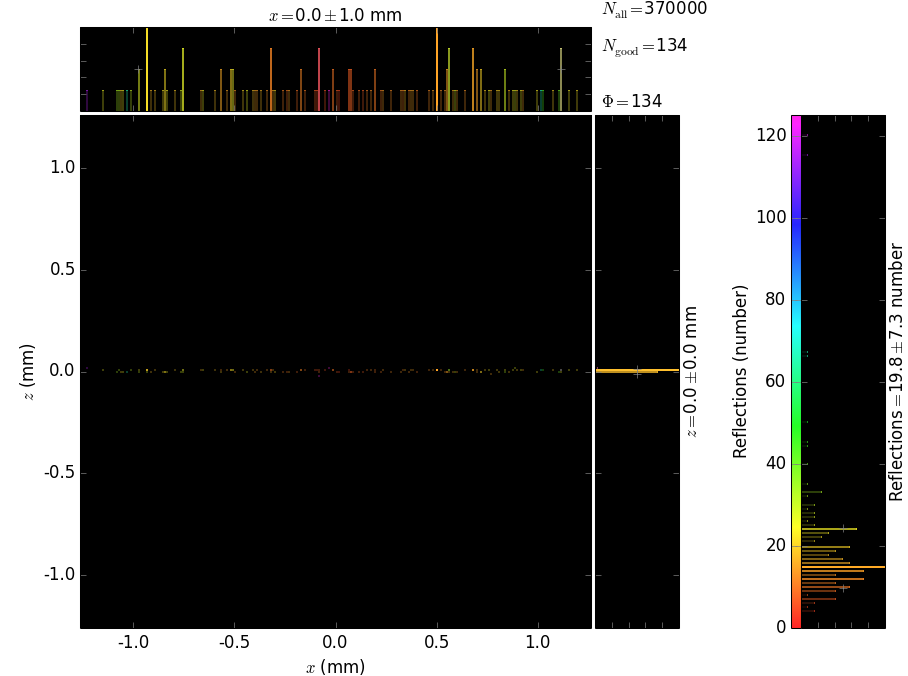
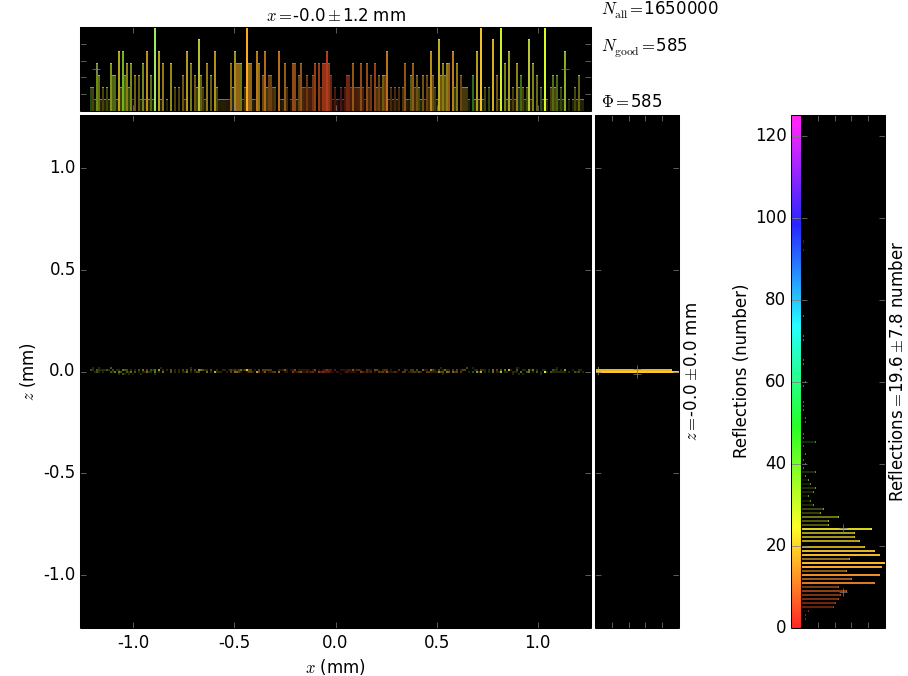
Minor cleanup, more plots, 120x0.01

diff --git a/screening.py b/screening.py
@@ -2,6 +2,7 @@
 This will help manage multiple screens/plots without
 overgarbagin the main code
 """
+import numpy as np
 import xrt.backends.raycing.screens as rsc
 #import xrt.backends.raycing.run as rr
 import xrt.backends.raycing as raycing
@@ -12,21 +13,22 @@ import xrt.plotter as xrtp
 # p_range = min, max
 # N = number of screens spanned on that distance
 
-def createScreens(beamLine, ranges):
+def createScreens(beamLine, ranges, howmany):
+    positions = np.linspace(ranges[0], ranges[1], howmany)
     screens = {}
-    for it in ranges:
+    for it in positions:
         screen = rsc.Screen(beamLine,'Screen_at_'+str(it), (0,it,0))
         screens[it] = screen
         print 'Screen at ' + str(it)
     # Save ranges as beamline property, no need to keep globally
-    beamLine.s_ranges = ranges
+    beamLine.s_positions = positions
     beamLine.screens  = screens
 
 # Next screens need to be exposed in run_process and
 # dictionary must be prepared
 def exposeScreens(beamLine, beamToBeSeen):
     partDict = {}
-    for it in beamLine.s_ranges:
+    for it in beamLine.s_positions:
         partDict['Screen_at_'+str(int(it))] =\
                 beamLine.screens[it].expose(beamToBeSeen)
     return partDict
@@ -37,9 +39,9 @@ def createPlots(beamLine):
     zLimits = xLimits
     cLimits = [0, beamLine.nRefl]
     plots = []
-    for it in beamLine.s_ranges:
-        print 'current range: ' + str(it)
-        print 'Screen_at_'+str(it)
+    for it in beamLine.s_positions:
+#        print 'current range: ' + str(it)
+#        print 'Screen_at_'+str(it)
         name = 'Screen_at_'+str(int(it))
         plot = xrtp.XYCPlot(name, (1,),
             xaxis=xrtp.XYCAxis(r'$x$', 'mm', data=raycing.get_x,\
@@ -55,6 +57,6 @@ def createPlots(beamLine):
         plot.saveName = 'png/' + plot.baseName + '.png'
 #        plot.persistentName = 'pickle/' + plot.baseName + '.pickle'
         plots.append(plot)
-    print 'leaving createPlots()'
-#    print plots[0].nRaysAlive
+#    print 'leaving createPlots()'
+
     return plots

diff --git a/realisticPolycapillary.py b/realisticPolycapillary.py
@@ -132,7 +132,7 @@ def build_beamline(nrays=1e4):
 
     beamLine.exitScreen = rsc.Screen(beamLine,'ExitScreen', (0,y2,0))
 
-    createScreens(beamLine,[y2, yf, (y2+yf)/2, yf + (yf-y2)])
+    createScreens(beamLine,[y2, yf + yf-y2], 11)
     return beamLine
 
 
@@ -166,8 +166,8 @@ def run_process(beamLine, shineOnly1stSource=False):
     # See them on screen 
     ExitScreen = beamLine.exitScreen.expose(beamCapillaryGlobalTotal)
     outDict['ExitScreen'] = ExitScreen
+    # Create exposed beamlines in outside module screens.
     outDict.update(exposeScreens(beamLine, beamCapillaryGlobalTotal))
-    print outDict.keys()
 
     return outDict
 
@@ -176,31 +176,9 @@ rr.run_process = run_process
 def main():
     beamLine = build_beamline()
     plot2D(beamLine)
-    plots = []
-    """
-    Lens Exit Screen
-    """
-    xLimits = [-Dout/2, Dout/2]
-    zLimits = xLimits #[-3*rIn, 3*rIn]
-    plot = xrtp.XYCPlot('ExitScreen', (1,),
-        xaxis=xrtp.XYCAxis(r"$x$", 'mm', data=raycing.get_x,\
-                bins=256, ppb=2, limits=xLimits),
-        yaxis=xrtp.XYCAxis(r"$z$", 'mm', data=raycing.get_z,\
-                bins=256, ppb=2, limits=zLimits),
-        caxis=xrtp.XYCAxis("Reflections", 'num of',\
-                data=raycing.get_reflection_number,\
-                bins=256, ppb=2, limits=[0, nRefl]),
-        beamState='ExitScreen', title='Detector at exit', aspect='auto',
-        persistentName=None)
-    plot.baseName = 'Detector_at_' + str(y2)
-    plot.saveName = 'png/' + plot.baseName + '.png'
-    plots.append(plot)
 
-    # Add plots with clever outside function:
-    plots = plots + createPlots(beamLine)
-#    for plott in plots:
-#        print 'name: ' + plott.beam
-    print 'plots size: ' + str(len(plots))
+    # Create xrtp.Plots in outside module  
+    plots = createPlots(beamLine)
     xrtr.run_ray_tracing(plots, repeats=repeats, beamLine=beamLine, processes=1)
 
 #    return beamLine
